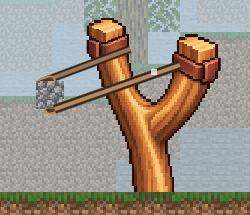
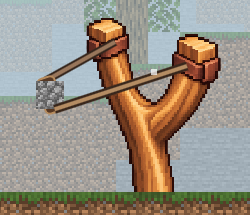
Fix sling binding anchors and open top-100 leaderboard viewing

Changed region(s): [[0.252, 0.2791, 0.756, 0.5302], [0.168, 0.1674, 0.532, 0.3907]]

diff --git a/index.html b/index.html
@@ -14,7 +14,7 @@
   <button id="resume">继续游戏</button><button id="restart" aria-label="↻ 重开">重新挑战</button><button id="levelMenuBtn">选择关卡</button><button id="soundToggle">音效：开</button><button id="musicToggle">音乐：开</button>
  </div></section>
  <section id="profileMenu" class="menu-screen hidden" aria-label="玩家昵称"><form class="dialog-panel" id="profileForm"><h2>你叫什么名字？</h2><p>设置昵称后开始挑战，十关全通后记录排行榜成绩。</p><label for="nickname">玩家昵称</label><input id="nickname" name="nickname" maxlength="16" minlength="1" autocomplete="nickname" required><p id="profileStatus" class="online-status" role="status"></p><button id="saveProfile" type="submit">开始冒险</button><button id="profileBack" type="button">返回</button></form></section>
- <section id="leaderboardMenu" class="menu-screen hidden" aria-label="排行榜"><div class="dialog-panel leaderboard-panel"><h2>主世界排行榜</h2><p>全通后记录成绩 · 十关个人最快时间相加</p><p id="leaderboardStatus" class="online-status" role="status"></p><div class="ranking-scroll" id="rankingTable"><table><thead><tr><th>名次</th><th>玩家</th><th>总用时</th></tr></thead><tbody id="rankingRows"></tbody></table></div><button id="leaderboardRefresh">刷新</button><button id="leaderboardBack">返回选关</button></div></section>
+ <section id="leaderboardMenu" class="menu-screen hidden" aria-label="排行榜"><div class="dialog-panel leaderboard-panel"><h2>主世界排行榜</h2><p>所有玩家可查看 · 全通后上榜 · 最多 100 人</p><p id="leaderboardStatus" class="online-status" role="status"></p><div class="ranking-scroll" id="rankingTable"><table><thead><tr><th>名次</th><th>玩家</th><th>总用时</th></tr></thead><tbody id="rankingRows"></tbody></table></div><button id="leaderboardRefresh">刷新</button><button id="leaderboardBack">返回选关</button></div></section>
  <section class="result hidden" id="result"><div class="result-inner"><span id="resultFlag">挑战成功</span><h2 id="resultTitle"></h2><img id="rewardIcon" class="reward-icon hidden" alt=""><p id="resultMsg"></p>
  <div class="result-buttons"><button id="retryBtn">重新挑战</button><button id="nextBtn">下一关</button><button id="resultLevels">选关</button></div></div></section>
 </main><script src="vendor/matter.min.js"></script>

diff --git a/README.md b/README.md
@@ -1,6 +1,6 @@
 # MC方块弹射 / MC Block Launch
 
-弹弓发射 Minecraft 方块与物品，逐像素破坏固定建筑，清除怪物。**Alpha 0.11.2：主世界十关、持续燃烧、全通计时排行榜与原版背景音乐。**
+弹弓发射 Minecraft 方块与物品，逐像素破坏固定建筑，清除怪物。**Alpha 0.11.3：主世界十关、持续燃烧、全通计时排行榜与原版背景音乐。**
 
 ![主世界场景](evidence/level-6-initial.png)
 
@@ -56,7 +56,7 @@ Windows 玩家可下载[0.11.0 免安装试玩包](https://github.com/qcya/mc-bl
 
 昵称为 1—16 个汉字、字母或数字，可含空格、下划线、短横线。浏览器保存匿名身份令牌，服务器只保存令牌哈希；改名不会丢失成绩。清除站点数据会失去身份。
 
-闯关时只在本机保存各关个人最快用时。**十关全通后才上传成绩**，未全通点击排行榜显示“全通关后展示”。总排名按十关个人最快用时之和升序，不记录耗弹；重玩更快即可刷新。暂停时间不计入用时。旧版完整成绩迁移为计时成绩，旧版未全通记录不参与排行。此榜供朋友试玩，成绩由客户端上报，不具备比赛级防作弊。关卡进度暂不跨设备同步。
+所有玩家都能查看排行榜，最多显示最快的 **100 人**。闯关时只在本机保存各关个人最快用时，**十关全通后才上传成绩并参与排名**。总排名按十关个人最快用时之和升序，不记录耗弹；重玩更快即可刷新。暂停时间不计入用时。旧版完整成绩迁移为计时成绩，旧版未全通记录不参与排行。此榜供朋友试玩，成绩由客户端上报，不具备比赛级防作弊。关卡进度暂不跨设备同步。
 
 ## 开发与服务部署
 

diff --git a/docs/TEST_RESULTS.md b/docs/TEST_RESULTS.md
@@ -1,4 +1,11 @@
-# 实际测试结果 — Alpha 0.11.2
+# 实际测试结果 — Alpha 0.11.3
+
+- `npm test`：**124/124 通过**。新增渲染端点回归：六种拉弓方向都固定到标注的两个绑带中心；新增真实 HTTP 榜单验证：105 人全通、1 人未通时，只返回最快 100 人。
+- 本轮针对排行榜、手机、音乐与正反向拉弓的 **8/8 浏览器场景通过**。新玩家可查看，未通关不出现自己的上榜记录；前端即使收到 105 条也只显示 100 行；全通提交、改名、手机取消和音乐开关仍正常。慢网络下重叠刷新曾复现 200 行，已用请求序号拒绝旧响应；新增回归确认一直只有 100 行且保留最新结果。
+- 已检查 `sling-fixed-front.png` 与 `sling-fixed-reverse.png`：两根皮筋端点落在同一对绑带位置，不随拉伸角度挪动。`leaderboard-public-top100.png` 是未通关玩家查看榜单的测试画面，使用本机模拟数据，未向线上写入测试成绩。
+- 关卡、物理和发射参数不改；完整 Matter 十关通关与 47 组时机回归随核心测试通过。线上实际状态见 deployment.json 和 live-browser.json。
+
+## Alpha 0.11.2 历史记录
 
 ## 本轮修正
 

diff --git a/CHANGELOG.md b/CHANGELOG.md
@@ -1,5 +1,10 @@
 # 修改记录
 
+## Alpha 0.11.3 — 2026-10-17
+
+- 两根皮筋固定在用户红点标注的绑带中心；正向、反向、上下拉弓都使用同一对固定端点，更新实际正反向截图。
+- 排行榜开放给未全通玩家查看；仍只在十关全通后上传与上榜，前后端均限制显示最快 100 人。105 条完整成绩和未通关记录验证通过。
+
 ## Alpha 0.11.2 — 2026-10-17
 
 - 修复落稳的末影珍珠被怪物碰到仍造成伤害：使用珍珠碰撞前自身的速度判断有效命中，低于 30px/s 不触发伤害；正常飞行命中与穿墙不变。
